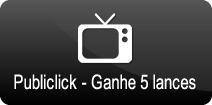
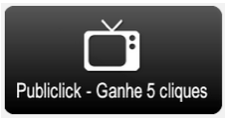
cliques

Changed region(s): [[0.0, 0.0, 1.0, 1.0], [0.3396, 0.1143, 0.6226, 0.6286]]

diff --git a/_includes/footer.html b/_includes/footer.html
@@ -46,7 +46,7 @@
                 <div class="row hide" data-step="5" data-title="Como funciona o Leilão">
                     <div class="col-md-12">
                      <img src="/images/como-funciona-o-leilao.jpg" width="100%">
-                     <p>Em cada leilão escolhido você poderá dar no <strong>máximo 5 clique</strong> na opção "DAR CLIQUE".</p>
+                     <p>Em cada leilão escolhido você poderá dar no <strong>máximo 5 cliques</strong> na opção "DAR CLIQUE".</p>
                      <p>Quando você ativa sua participação em um leilão, será transferido 5 cliques do seu saldo para o leilão escolhido.</p>
                      <p>Na data e horário informado no banner o leilão começa e um cronômetro é disparado em contagem regressiva iniciando em 20 segundos.</p>
                      <p>Quando um usuário clicar na opção "DAR CLIQUE" o cronômetro recomeça nos 20 segundos e o apelido do usuário, cadastrado no site, irá aparecer na parte de baixo do banner.</p>
@@ -56,7 +56,7 @@
                 
                 <div class="row hide" data-step="6" data-title="Dicas do Leilão de Prêmios">
                     <div class="col-md-12">
-                     <p class="text-center"><strong>Não deixe para dar lance nos segundos finais</strong></p>
+                     <p class="text-center"><strong>Não deixe para dar os clique nos segundos finais</strong></p>
                      <p>Imagine que ao dar seu clique, ele percorrerá um longo caminho pela internet até chegar em nossos servidores. Nesse trajeto pode haver qualquer atraso, comum à internet, fazendo com que seu clique não seja computado. Caso adote a estratégia de dar os cliques somente no final, o faça antes dos 3 segundos. Lembre-se que o cronômetro sempre regressa ao seu valor inicial, sendo o clique dado no começo ou no fim.</p>
                      <p class="text-center"><strong>Não desperdice sua conexão de internet ou seu computador com outras atividades</strong></p>
                      <p>Quando estiver participando ou acompanhando algum leilão, feche todos os outros programas, como messenger, players, jogos, compartilhadores, etc. Deixe somente uma aba aberta no seu navegador. Utilize sempre uma versão atualizada de seu navegador. O Leilão de Prêmios recomenda as últimas versões do Google Chrome e do Mozilla Firefox.</p>
